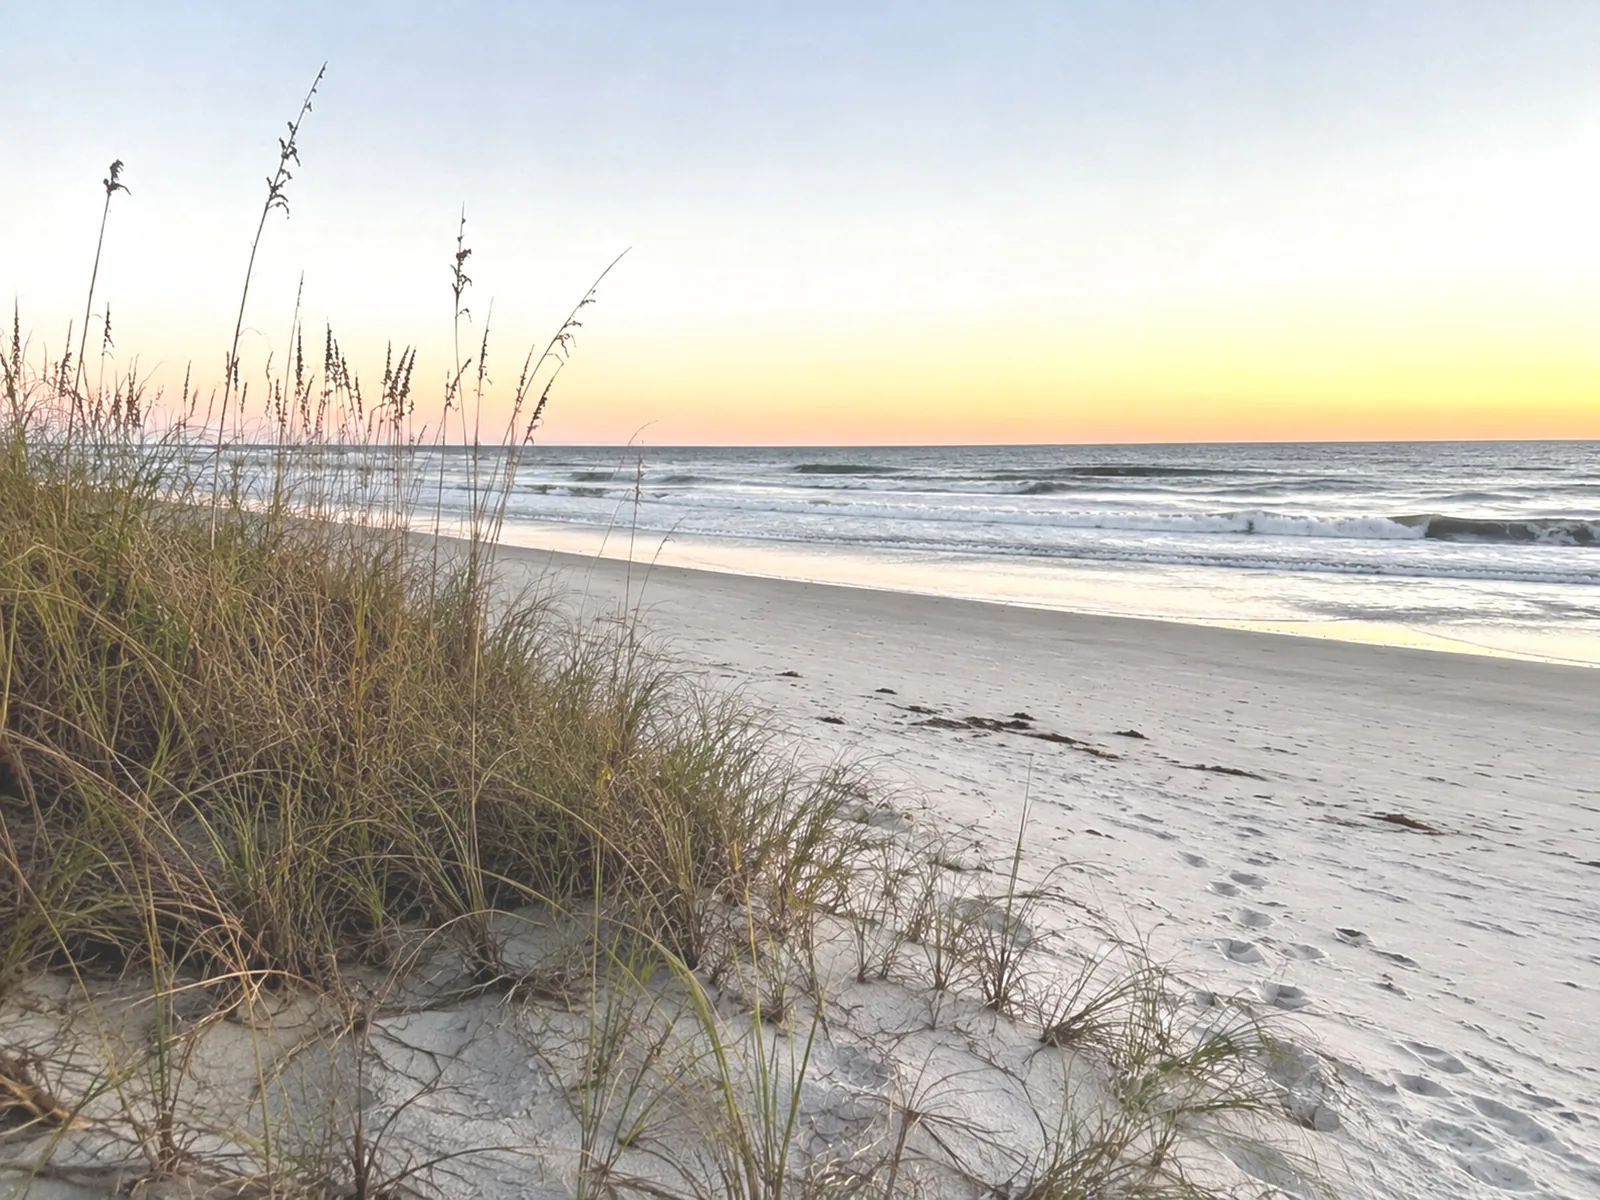
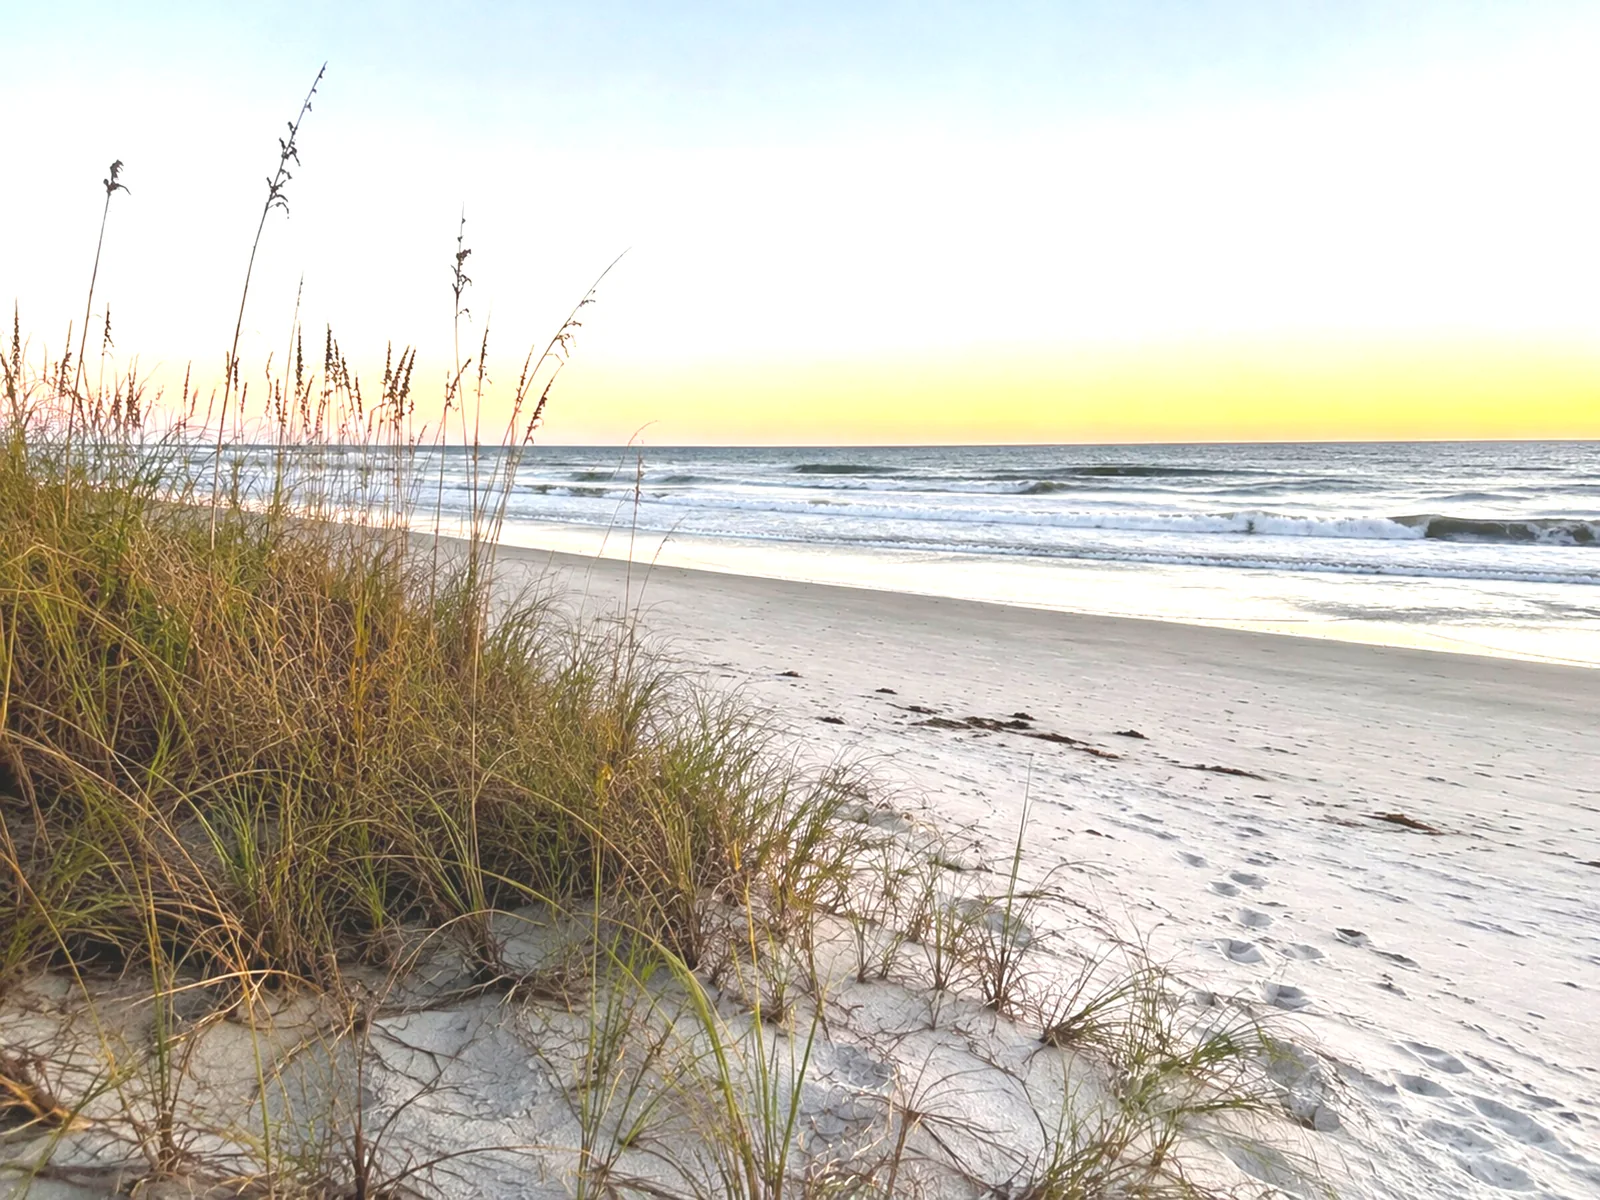
Brighten and saturate hero photo, lighten overlay for more color pop

diff --git a/public/index.html b/public/index.html
@@ -59,23 +59,28 @@
     .hero::before {
       content: '';
       position: absolute; inset: 0;
-      background: linear-gradient(180deg, rgba(20,32,46,0.15) 0%, rgba(20,32,46,0.55) 100%);
+      background: linear-gradient(180deg, rgba(20,32,46,0.05) 0%, rgba(20,32,46,0.1) 55%, rgba(20,32,46,0.4) 100%);
     }
     .hero-inner {
       position: relative; z-index: 1;
-      max-width: 640px; padding: 0 28px;
+      max-width: 640px; padding: 36px 40px;
+      border-radius: 20px;
+      background: radial-gradient(ellipse at center, rgba(15,25,36,0.32) 0%, rgba(15,25,36,0.14) 65%, rgba(15,25,36,0) 100%);
     }
     .hero .eyebrow {
       font-size: 11px; font-weight: 700; letter-spacing: 0.22em; text-transform: uppercase;
-      color: rgba(255,255,255,0.82); margin-bottom: 20px;
+      color: #fff; margin-bottom: 20px;
+      text-shadow: 0 1px 12px rgba(0,0,0,0.35);
     }
     .hero h1 {
       font-family: 'Playfair Display', Georgia, serif;
       font-weight: 700; font-size: 44px; color: #fff; line-height: 1.22;
+      text-shadow: 0 2px 20px rgba(0,0,0,0.35);
     }
     .hero .tagline {
-      font-size: 15.5px; color: rgba(255,255,255,0.88); margin-top: 20px; line-height: 1.65;
+      font-size: 15.5px; color: #fff; margin-top: 20px; line-height: 1.65;
       max-width: 480px; margin-left: auto; margin-right: auto;
+      text-shadow: 0 1px 12px rgba(0,0,0,0.3);
     }
     .hero-cta {
       display: inline-block; margin-top: 32px;
